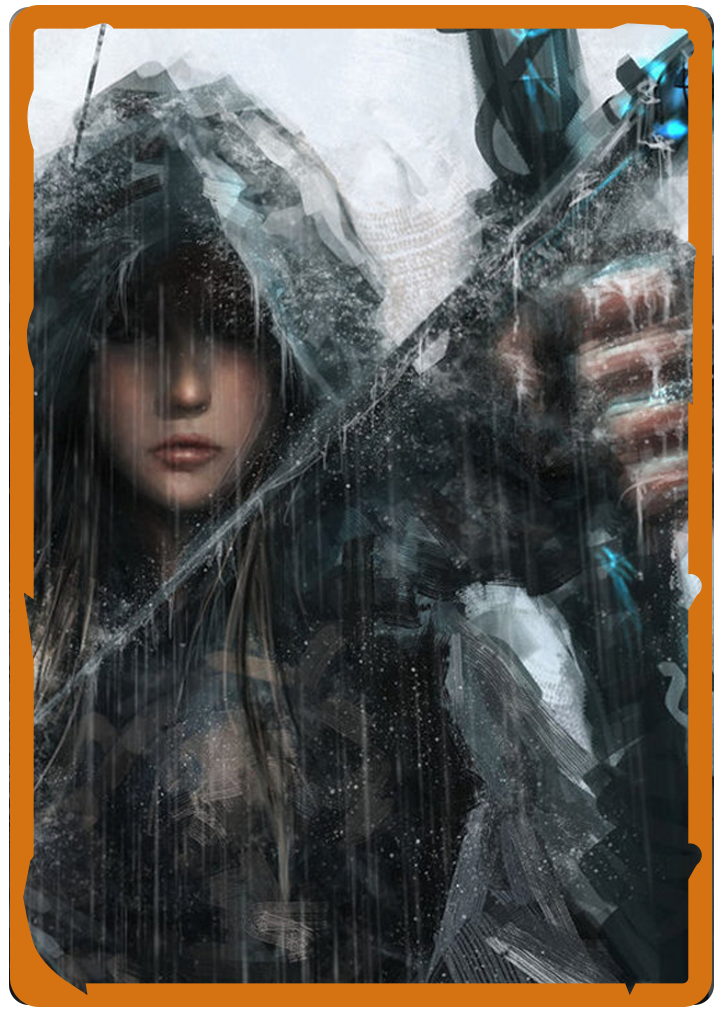
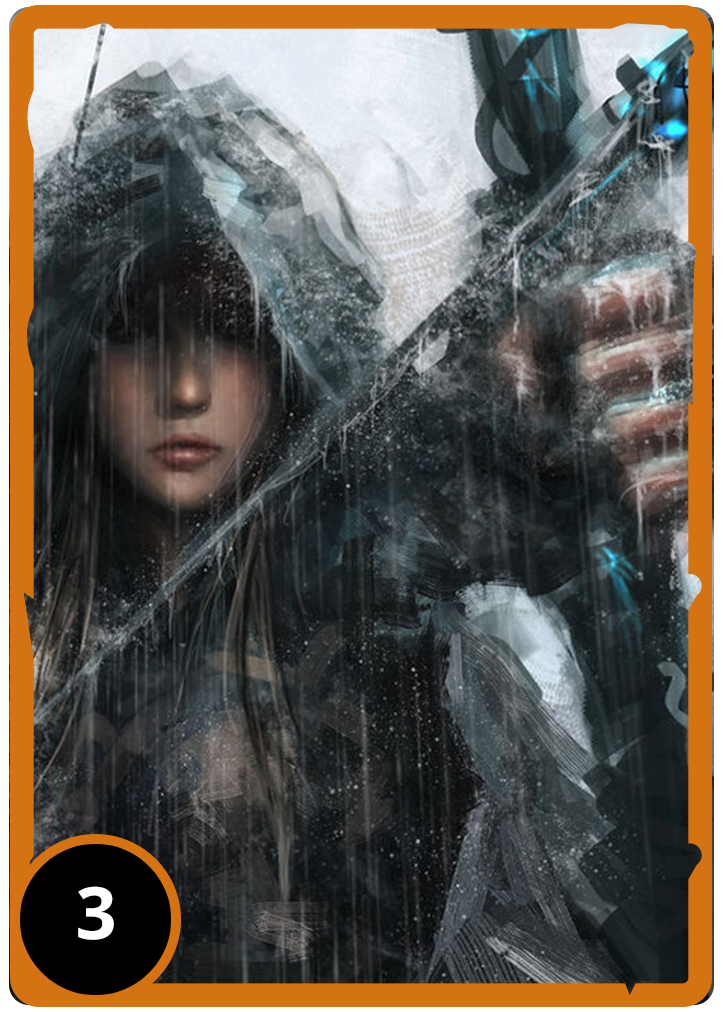
added pts on playable cards

Changed region(s): [[0.0304, 0.8271, 0.2739, 1.0]]

diff --git a/app/screens/Game.js b/app/screens/Game.js
@@ -65,21 +65,11 @@ export default class Game extends Component {
     render() {
         return (
             <Image source={require('../assets/images/heaveneye_screengame_field.jpg')} style={styles.container}>
-            <StatusBar hidden />
-            <Timer /> 
-                <Target>
-                    <Text>
-                        This is your target
-                    </Text>
-                </Target>
-                <PlayableCard />
-            <Target/>
-            <PlayableCard />
-            <Score savedScore = {this.state.score}>
-            </Score>
-            <Target getTarget={this.getTargetValue.bind(this)}/>
-            <PlayableCards chooseValue={this.getChosenValue.bind(this)}>
-            </PlayableCards>
+                <StatusBar hidden />
+                <Timer /> 
+                <Score savedScore = {this.state.score} />
+                <Target getTarget={this.getTargetValue.bind(this)} />
+                <PlayableCards chooseValue={this.getChosenValue.bind(this)} />
             </Image>
         );
     }
